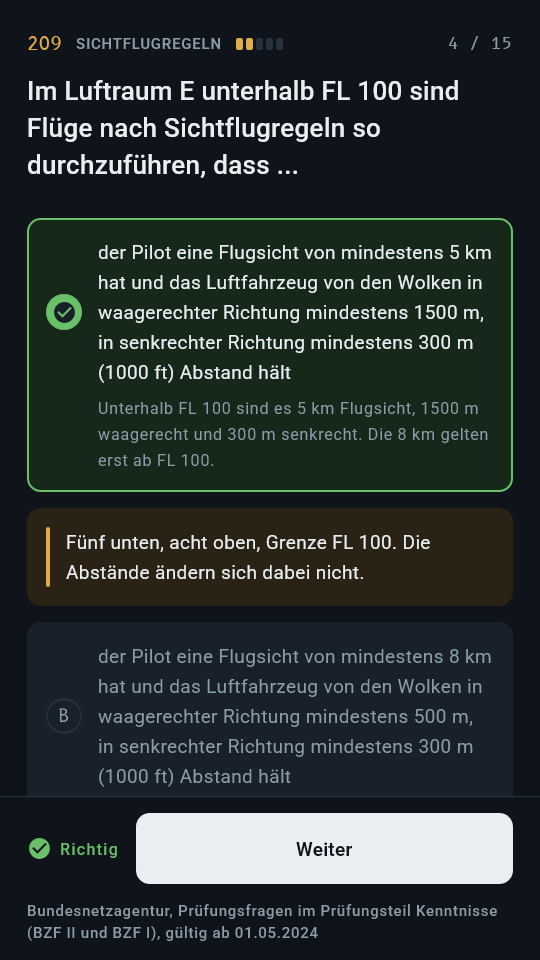
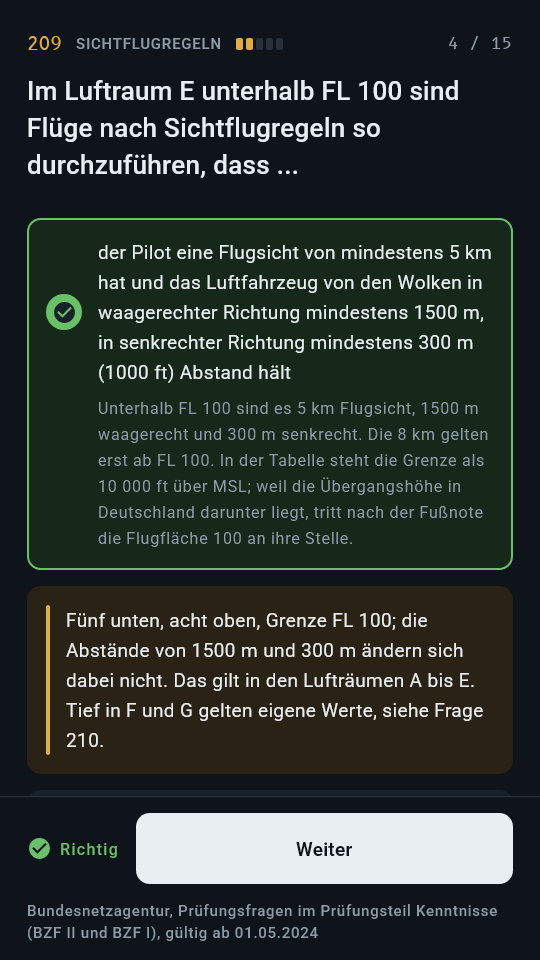
Squashed 'bzf-pruefung/' changes from bf34855..8d7418b
8d7418b Die letzten drei Gegenlesungen, und eine Stelle, die ich dreimal falsch hatte
5f2476b Die Fundstelle sagt, wo man nachliest, und sonst nichts
a631310 Vierundzwanzig Anfuehrungszeichen, die nie geschlossen wurden

git-subtree-dir: bzf-pruefung
git-subtree-split: 8d7418b31dbc0668aa25f174065ce2ae48b7622a

Changed region(s): [[0.0296, 0.4688, 0.9481, 0.8125], [0.9185, 0.5, 0.9481, 0.5312]]

diff --git a/themen/meldungen-und-meldepunkte.html b/themen/meldungen-und-meldepunkte.html
@@ -137,7 +137,7 @@
             </span>
           </button>
           <p class="merksatz">Gemeldet wird, wo der VFR-Flug kontrolliert wird, und das ist hier der Luftraum D. In E ist VFR nicht kontrolliert, dort hört niemand mit, der die Meldung braucht.</p>
-          <p class="quelle">SERA.8025 Buchstabe a: bei einem kontrollierten Flug sind Zeitpunkt und Höhe des Überflugs der vorgegebenen Pflichtmeldepunkte unverzüglich zu melden. VFR-Flüge im Luftraum D sind kontrollierte Flüge; außerhalb kontrollierter Lufträume greift die Pflicht nicht. Welche Punkte das sind, und wann die Kontrollstelle auf die Meldung verzichtet, legt nach § 30 LuftVO das Bundesaufsichtsamt für Flugsicherung fest · Bundesnetzagentur, Pr&uuml;fungsfragen im Pr&uuml;fungsteil Kenntnisse (BZF II und BZF I), g&uuml;ltig ab 01.05.2024</p>
+          <p class="quelle">SERA.8025 Buchstabe a: bei einem kontrollierten Flug sind Zeitpunkt und Höhe des Überflugs der vorgegebenen Pflichtmeldepunkte unverzüglich zu melden. Was ein kontrollierter Flug ist, sagt Artikel 2 Nummer 59 der Durchführungsverordnung (EU) Nr. 923/2012: jeder Flug, der einer Flugverkehrskontrollfreigabe unterliegt. Dass im Luftraum D alle Flüge eine solche Freigabe benötigen, steht in SERA.6001 Buchstabe a Nummer 4 in der Fassung der VO (EU) 2016/1185 · Bundesnetzagentur, Pr&uuml;fungsfragen im Pr&uuml;fungsteil Kenntnisse (BZF II und BZF I), g&uuml;ltig ab 01.05.2024</p>
         </article>
         <p class="quelle" style="margin-top:1.5rem">Im amtlichen PDF steht die richtige Antwort immer oben. Hier nicht, und in der App auch nicht. Nichts auf dieser Seite wird gespeichert: kein Fortschritt, keine F&auml;cher, kein Konto.</p>
       </div>

diff --git a/themen/meldungsarten.html b/themen/meldungsarten.html
@@ -137,7 +137,7 @@
             </span>
           </button>
           <p class="merksatz">Die Rangfolge der Meldungsarten ist sechsstufig und entscheidet, wer die Frequenz zuerst bekommt: Notmeldungen, Dringlichkeitsmeldungen, Peilfunkmeldungen, Flugsicherheitsmeldungen, Wettermeldungen, Flugbetriebsmeldungen. Dass die Peilfunkmeldung über der Flugsicherheitsmeldung steht, wirkt zunächst falsch, hat aber einen Grund: wer die Orientierung verloren hat, braucht die Frequenz dringender als der, der eine Freigabe will.</p>
-          <p class="quelle">Tabelle S14-1 Buchstabe c zu SERA.14005 (Anhang zur VO (EU) Nr. 923/2012 in der Fassung der VO (EU) 2016/1185), dieselbe Tabelle in NfL 2024-1-3266 Punkt 3. Was eine Peilfunkmeldung inhaltlich enthält, regelt die Tabelle nicht; die Peilgruppen selbst sind Gegenstand der Fragen 29 bis 32 · Bundesnetzagentur, Pr&uuml;fungsfragen im Pr&uuml;fungsteil Kenntnisse (BZF II und BZF I), g&uuml;ltig ab 01.05.2024</p>
+          <p class="quelle">Tabelle S14-1 Buchstabe c zu SERA.14005 (Anhang zur VO (EU) Nr. 923/2012 in der Fassung der VO (EU) 2016/1185), dieselbe Tabelle in NfL 2024-1-3266 Punkt 3; was eine Peilfunkmeldung inhaltlich enthält, regelt die Tabelle nicht · Bundesnetzagentur, Pr&uuml;fungsfragen im Pr&uuml;fungsteil Kenntnisse (BZF II und BZF I), g&uuml;ltig ab 01.05.2024</p>
         </article>
         <p class="quelle" style="margin-top:1.5rem">Im amtlichen PDF steht die richtige Antwort immer oben. Hier nicht, und in der App auch nicht. Nichts auf dieser Seite wird gespeichert: kein Fortschritt, keine F&auml;cher, kein Konto.</p>
       </div>

diff --git a/themen/luftraum-und-ausruestung.html b/themen/luftraum-und-ausruestung.html
@@ -137,7 +137,7 @@
             </span>
           </button>
           <p class="merksatz">Drei Namen, Nord, Mitte, Süd: Bremen, Langen, München. Oben heißen die FIR Hannover und Rhein; Maastricht ist nur die Zentrale, die dort führt.</p>
-          <p class="quelle">AIP VFR GEN 3-7 Nummer 2.1 (gelesen 17.09.2026, Ausgabe 17 SEP 2026): der FIS wird in den Fluginformationsgebieten (FIR) Bremen, Langen und München von der DFS bereitgestellt. Dazu ENR 1-56 Nummer 1 (NfL I-306/06), das dieselben drei Kontrollzentralen „für das eigene Fluginformationsgebiet&quot; nennt · Bundesnetzagentur, Pr&uuml;fungsfragen im Pr&uuml;fungsteil Kenntnisse (BZF II und BZF I), g&uuml;ltig ab 01.05.2024</p>
+          <p class="quelle">AIP VFR GEN 3-7 Nummer 2.1 (Stand 11 FEB 2021): der FIS wird in den Fluginformationsgebieten (FIR) Bremen, Langen und München von der DFS bereitgestellt; festgelegt werden die Fluginformationsgebiete nach § 16 Absatz 1 Nummer 1 LuftVO. Dazu ENR 1-56 Nummer 1 (Stand 18 SEP 2025, NfL I-306/06), das dieselben drei Kontrollzentralen „für das eigene Fluginformationsgebiet“ nennt · Bundesnetzagentur, Pr&uuml;fungsfragen im Pr&uuml;fungsteil Kenntnisse (BZF II und BZF I), g&uuml;ltig ab 01.05.2024</p>
         </article>
         <p class="quelle" style="margin-top:1.5rem">Im amtlichen PDF steht die richtige Antwort immer oben. Hier nicht, und in der App auch nicht. Nichts auf dieser Seite wird gespeichert: kein Fortschritt, keine F&auml;cher, kein Konto.</p>
       </div>

diff --git a/themen/abkuerzungen.html b/themen/abkuerzungen.html
@@ -137,7 +137,7 @@
             </span>
           </button>
           <p class="merksatz">R wie Rundherum am Boden, A wie Aufwärts darüber. CTR beginnt am Boden, CTA nicht.</p>
-          <p class="quelle">Artikel 2 Nummern 61 (Kontrollzone) und 56 (Kontrollbezirk) der Durchführungsverordnung (EU) Nr. 923/2012; dass die Luftraumklasse E für Kontrollzonen nicht verwendet werden darf und dass in den übrigen kontrollierten Klassen jeder Flug eine Freigabe benötigt, steht in SERA.6001. Die Auflösung der Abkürzung selbst steht in ICAO Doc 8400, das nicht im Repo liegt · Bundesnetzagentur, Pr&uuml;fungsfragen im Pr&uuml;fungsteil Kenntnisse (BZF II und BZF I), g&uuml;ltig ab 01.05.2024</p>
+          <p class="quelle">Artikel 2 Nummern 61 (Kontrollzone) und 56 (Kontrollbezirk) der Durchführungsverordnung (EU) Nr. 923/2012; die Buchstabenfolge CTR selbst steht in keiner der hier geprüften Vorschriften · Bundesnetzagentur, Pr&uuml;fungsfragen im Pr&uuml;fungsteil Kenntnisse (BZF II und BZF I), g&uuml;ltig ab 01.05.2024</p>
         </article>
         <p class="quelle" style="margin-top:1.5rem">Im amtlichen PDF steht die richtige Antwort immer oben. Hier nicht, und in der App auch nicht. Nichts auf dieser Seite wird gespeichert: kein Fortschritt, keine F&auml;cher, kein Konto.</p>
       </div>
